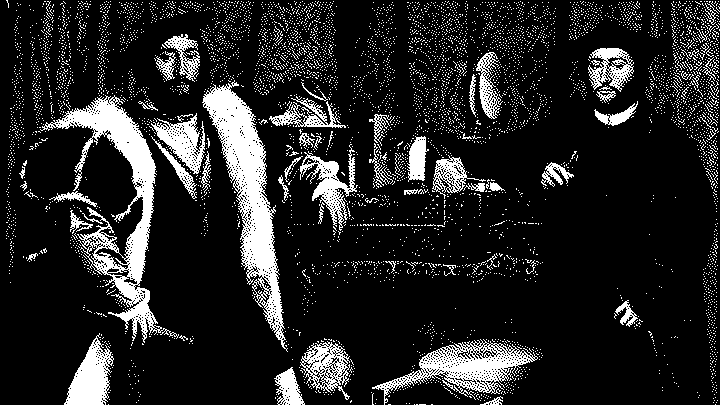
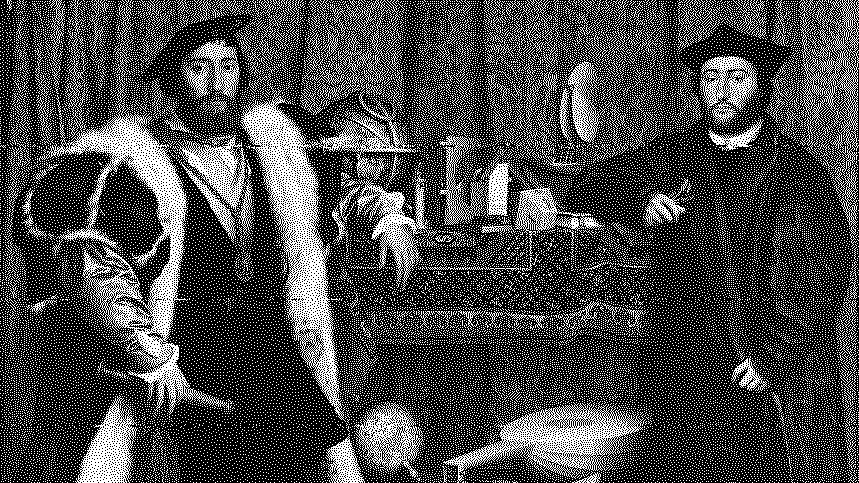
Elçiler: haberler ve iletişimde ortak 16:9 ince taneli görsel
- Tam tablo çok dik duruyordu: iletişimdeki gibi alttan 16:9 kırpım
- ambassadors.png: 859x483 (tuval genişliği, 1:1), Floyd–Steinberg,
  yumuşak ton eğrisi, hafif tarama satırı kayması; iki sayfa ortak
- hero.lua: tam tablo modu kaldırıldı; ince = true → .recep-dhero--ince
- theme.scss: ince eserlerde 1280 px altında yumuşak ölçekleme

diff --git a/theme.scss b/theme.scss
@@ -330,16 +330,10 @@ body:has(.recep-dhero) #title-block-header { display: none; }
   }
 }
 
-// tam tablo (hero.lua: tam = true): kırpılmaz, kendi oranında, en fazla dither genişliğinde
-// (--tuval-max): masaüstünde 1:1, retinada tam 2× — nokta matrisi keskin, moiré yok.
-.recep-dhero--tam-eser {
-  max-width: var(--tuval-max, 44rem);
-  --baslik: clamp(3rem, 16cqi, 7.5rem);
-  .recep-dhero-tuval img { object-fit: contain; }
-}
-// tuval dither genişliğinden darsa (telefon) yumuşak küçültme: noktalar ince baskı dokusuna döner
-@media (max-width: 799.98px) {
-  .recep-dhero--tam-eser .recep-dhero-tuval img { image-rendering: auto; }
+// ince taneli eser (hero.lua: ince = true): tuval genişliğinde (859 px) üretildi →
+// masaüstünde 1:1, retinada 2×. Daha dar ekranda pikselli küçültme noktaları yutar: yumuşak ölçekle.
+@media (max-width: 1279.98px) {
+  .recep-dhero--ince .recep-dhero-tuval img { image-rendering: auto; }
 }
 
 // Katman 1 — dev başlık, sol alt köşe, tuvalden aşağı taşar

diff --git a/memory.md b/memory.md
@@ -32,7 +32,7 @@ Kullanıcı: soluk filigran "yıkanmış, silik" — Digital Brutalism / Post-In
 - **1-bit görseller:** `assets/sanat/*.png` 720×405, Atkinson dither, kaynaktan 16:9 kırpma. Betik: scratchpad `sanat/dither2.html` + `dither2-surucu.mjs` (parametreler: genişlik, kontrast, parlaklık, cx, cy, yakınlaştırma). Vitruvius `2.4, 30, .5, .33, 1.06` (yakınlaştırma = kenardaki siyah şeritleri atar). WebP'ler SİLİNDİ.
 - **Renk:** img `grayscale(100%) contrast(200%)`, `image-rendering: pixelated`, `mix-blend-mode` tuval zemini ile: açık `#0033FF` + `screen` (kobalt/beyaz), gece `#ECEAE4` + `multiply` (zifiri/kırık beyaz). Değişkenler `$recep-tuval-zemin`, `$recep-tuval-karisim`.
 - **Başlık:** sol alt köşeye demirli, `translateY(--baslik × .42)` ile tuvalden taşar; `<span>` zemin renginde levha (`box-decoration-break: clone`). Boyut container query: `--baslik` buyuk `clamp(3.2rem,14cqi,9rem)`, orta `clamp(2.6rem,9cqi,6rem)`. Açıklama boşluğu `--baslik × .56 + 1.25rem`.
-- **haberler = elciler-tam** (2026-09-26): kullanıcı Merkür kolajını "çok kötü" bulup geri aldırdı (revert 10fe6ef). Yeni kural: Elçiler TAM tablo, arka plan/raf/kafatası korunur; ince Floyd–Steinberg 704×694, sert eşik yok, çok hafif tarama satırı kayması. ESER alanları `w`, `h`, `tam = true` → tuval tablonun oranında, `--tuval-max: w px` (1:1, moiré yok); <800 px yumuşak ölçekleme. Betik scratchpad `sanat/elciler.html`, `elciler-surucu.mjs`, `e2.json`. Ders: 1-bit görseli ekrandaki boyutuyla birebir üret; küçültme moiré yapar.
+- **haberler + iletişim = ambassadors.png** (2026-09-26): Merkür kolajı "çok kötü" → geri alındı (10fe6ef). Tam tablo denendi, "çok dik" bulundu → iletişimdeki gibi 16:9 alttan kırpım (cy .36). Görsel ince taneli Floyd–Steinberg, **859×483 = tuval genişliği** (1:1, retinada 2×), sert eşik yok, çok hafif tarama satırı kayması. ESER alanları `w`, `h`, `ince = true` (→ `.recep-dhero--ince`, 1280 px altında yumuşak ölçekleme). Betik scratchpad `sanat/elciler.html`, `elciler-surucu.mjs`, `e3.json`. Ders: 1-bit görseli ekrandaki boyutuyla birebir üret; küçültme moiré yapar. Mobil testi deviceScaleFactor 3 ile yap (1× yanıltıcı derecede sert görünür).
 - **`hero-meta`** front matter: tuval üstündeki sol etiketi ezer, neon yeşil, büyük harf korunur. Başında `>` varsa YAML tek tırnak + `\>` kaçışı gerekir (yoksa pandoc blockquote sayıp siler).
 - **Navbar küresi:** Quarto `.navbar-logo { padding-right: 4px }` + border-box küreyi yumurtaya çeviriyordu → `padding:0; flex-shrink:0; aspect-ratio:1/1`. Boyut artık CSS'ten okunur (42/36 px), küçük kürede 2× süper örnekleme.
 

diff --git a/assets/sanat/KAYNAK.md b/assets/sanat/KAYNAK.md
@@ -15,9 +15,10 @@ tam opak "art canvas" tuvalinde kullanılır (ana sayfada eser yok, dönen küre
 İşleme: yüksek çözünürlüklü asıldan 16:9 kırpma → 720×405 → kontrast → Atkinson dither → 1-bit PNG (7–29 KB).
 Değiştirmek için dosyayı aynı adla bu klasöre koyun; renk tuval zemini ve `mix-blend-mode` ile verilir (`$recep-tuval-*`).
 
-## ambassadors-tam.png — haberler (tam tablo)
 
-Aynı Holbein asli (Google Art Project, kamu malı), **kırpılmadan**: 704×694, Floyd–Steinberg (serpantin)
-+ hafif keskinleştirme, yumuşak ton eğrisi (sert eşik yok), 4 ince tarama satırı kayması (zarif glitch).
-704 px = sayfadaki tuval genişliği → masaüstünde 1:1, retinada 2×. İletişim sayfası 16:9 `ambassadors.png` ile kalır.
-Yeniden üretim: scratchpad `sanat/elciler.html` + `elciler-surucu.mjs` + `e2.json`.
+## ambassadors.png — haberler + iletişim (ince taneli)
+
+Holbein asli (Google Art Project, kamu malı), 16:9 kırpım (cy .36), **859×483** = sayfadaki tuval genişliği
+(masaüstünde 1:1, retinada 2×; 1280 px altında yumuşak ölçekleme). Floyd–Steinberg (serpantin),
+hafif keskinleştirme, yumuşak ton eğrisi (sert eşik yok), 4 ince tarama satırı kayması.
+Yeniden üretim: scratchpad `sanat/elciler.html` + `elciler-surucu.mjs` + `e3.json`.

diff --git a/README.md b/README.md
@@ -51,8 +51,7 @@ Başlıklar küçük harfle yazılır. **R kodu içeren sayfa** eklediyseniz yer
   | sekme | eser |
   |---|---|
   | ekip, 404 | Raphael — Atina Okulu |
-  | haberler | Holbein — Elçiler (tam tablo, kırpılmamış) |
-  | iletişim | Holbein — Elçiler (16:9) |
+  | haberler, iletişim | Holbein — Elçiler |
   | veri ve kod, araçlar | Da Vinci — Vitruvius Adamı |
   | proje, çıktılar | Michelangelo — Adem'in Yaratılışı |
   | hakkımızda | Rembrandt — Kumaşçılar Loncası Yöneticileri |
